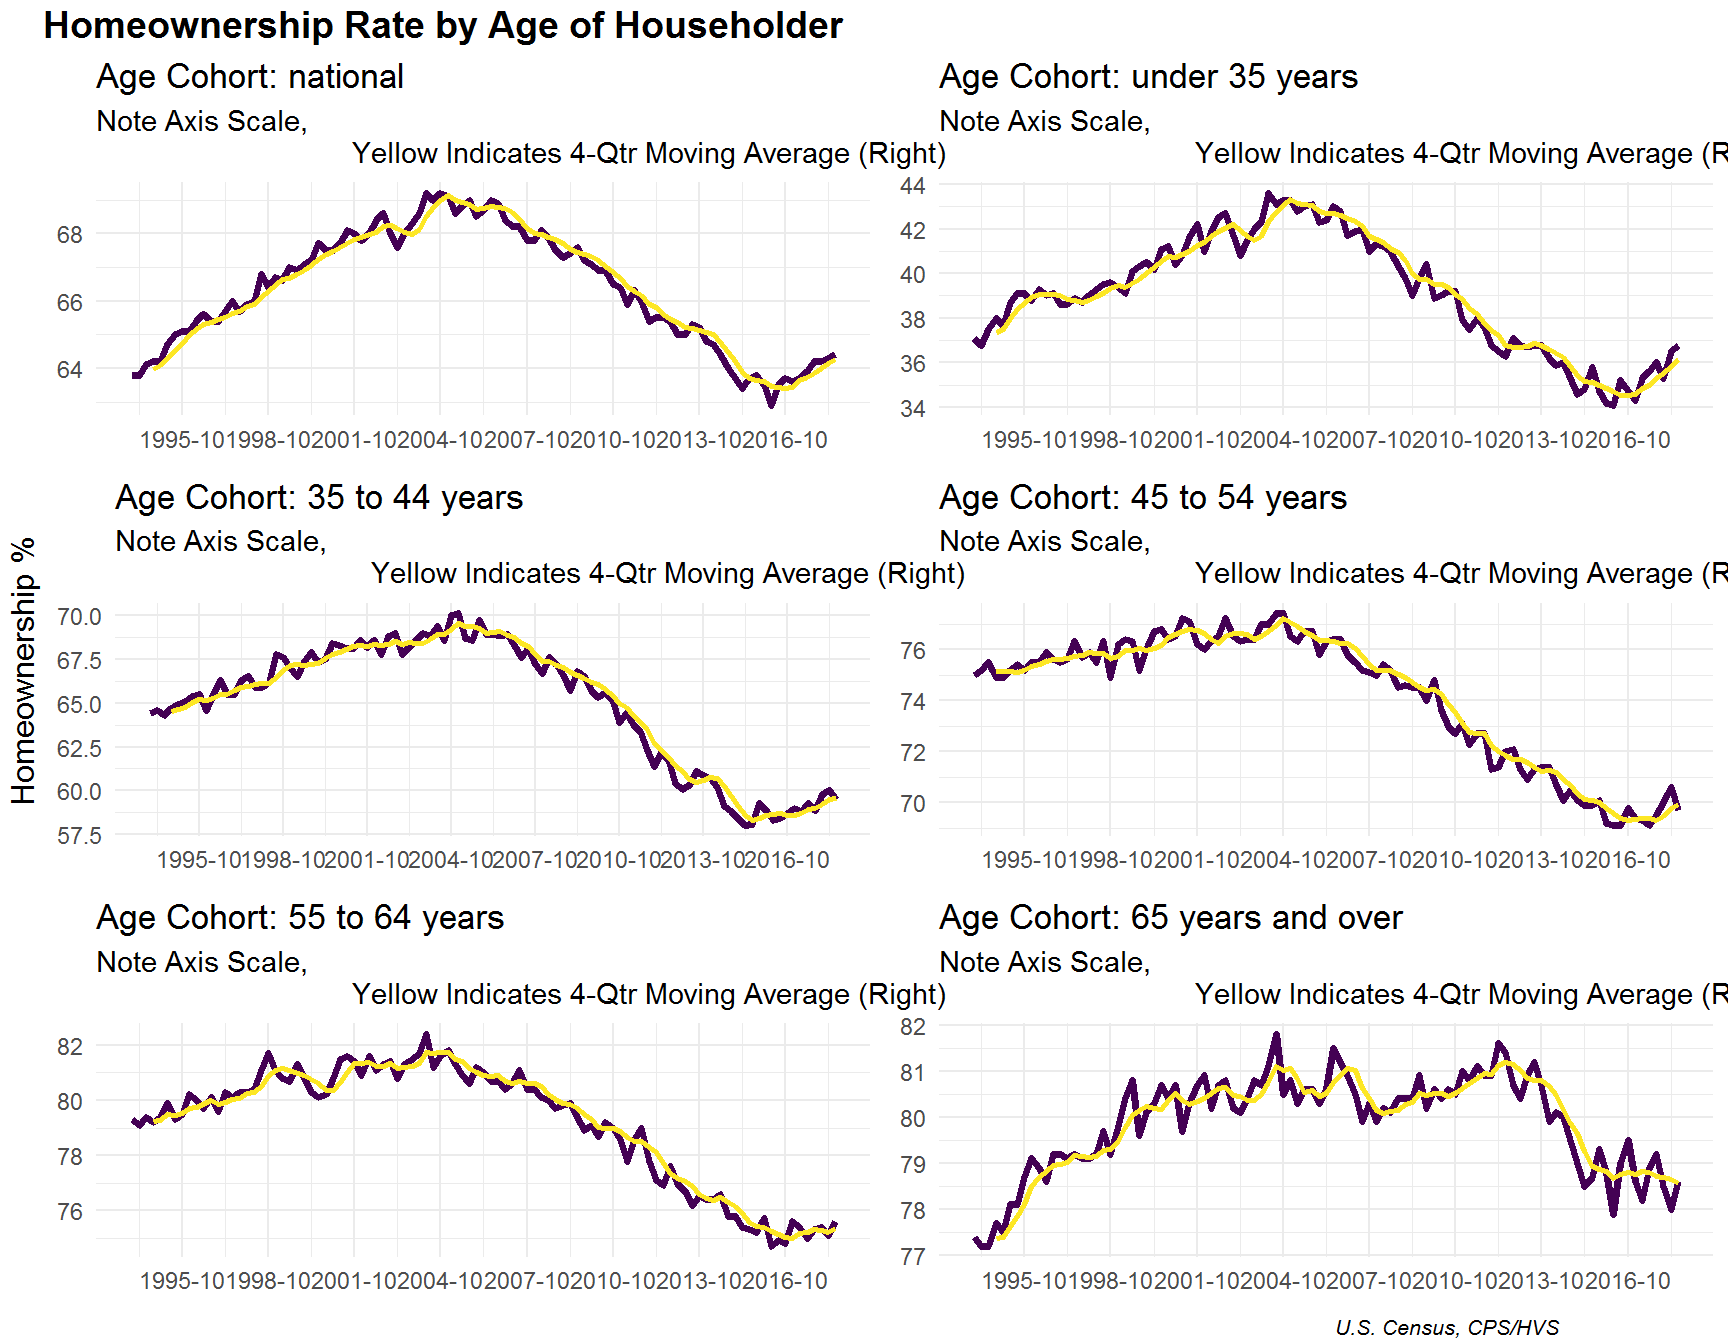
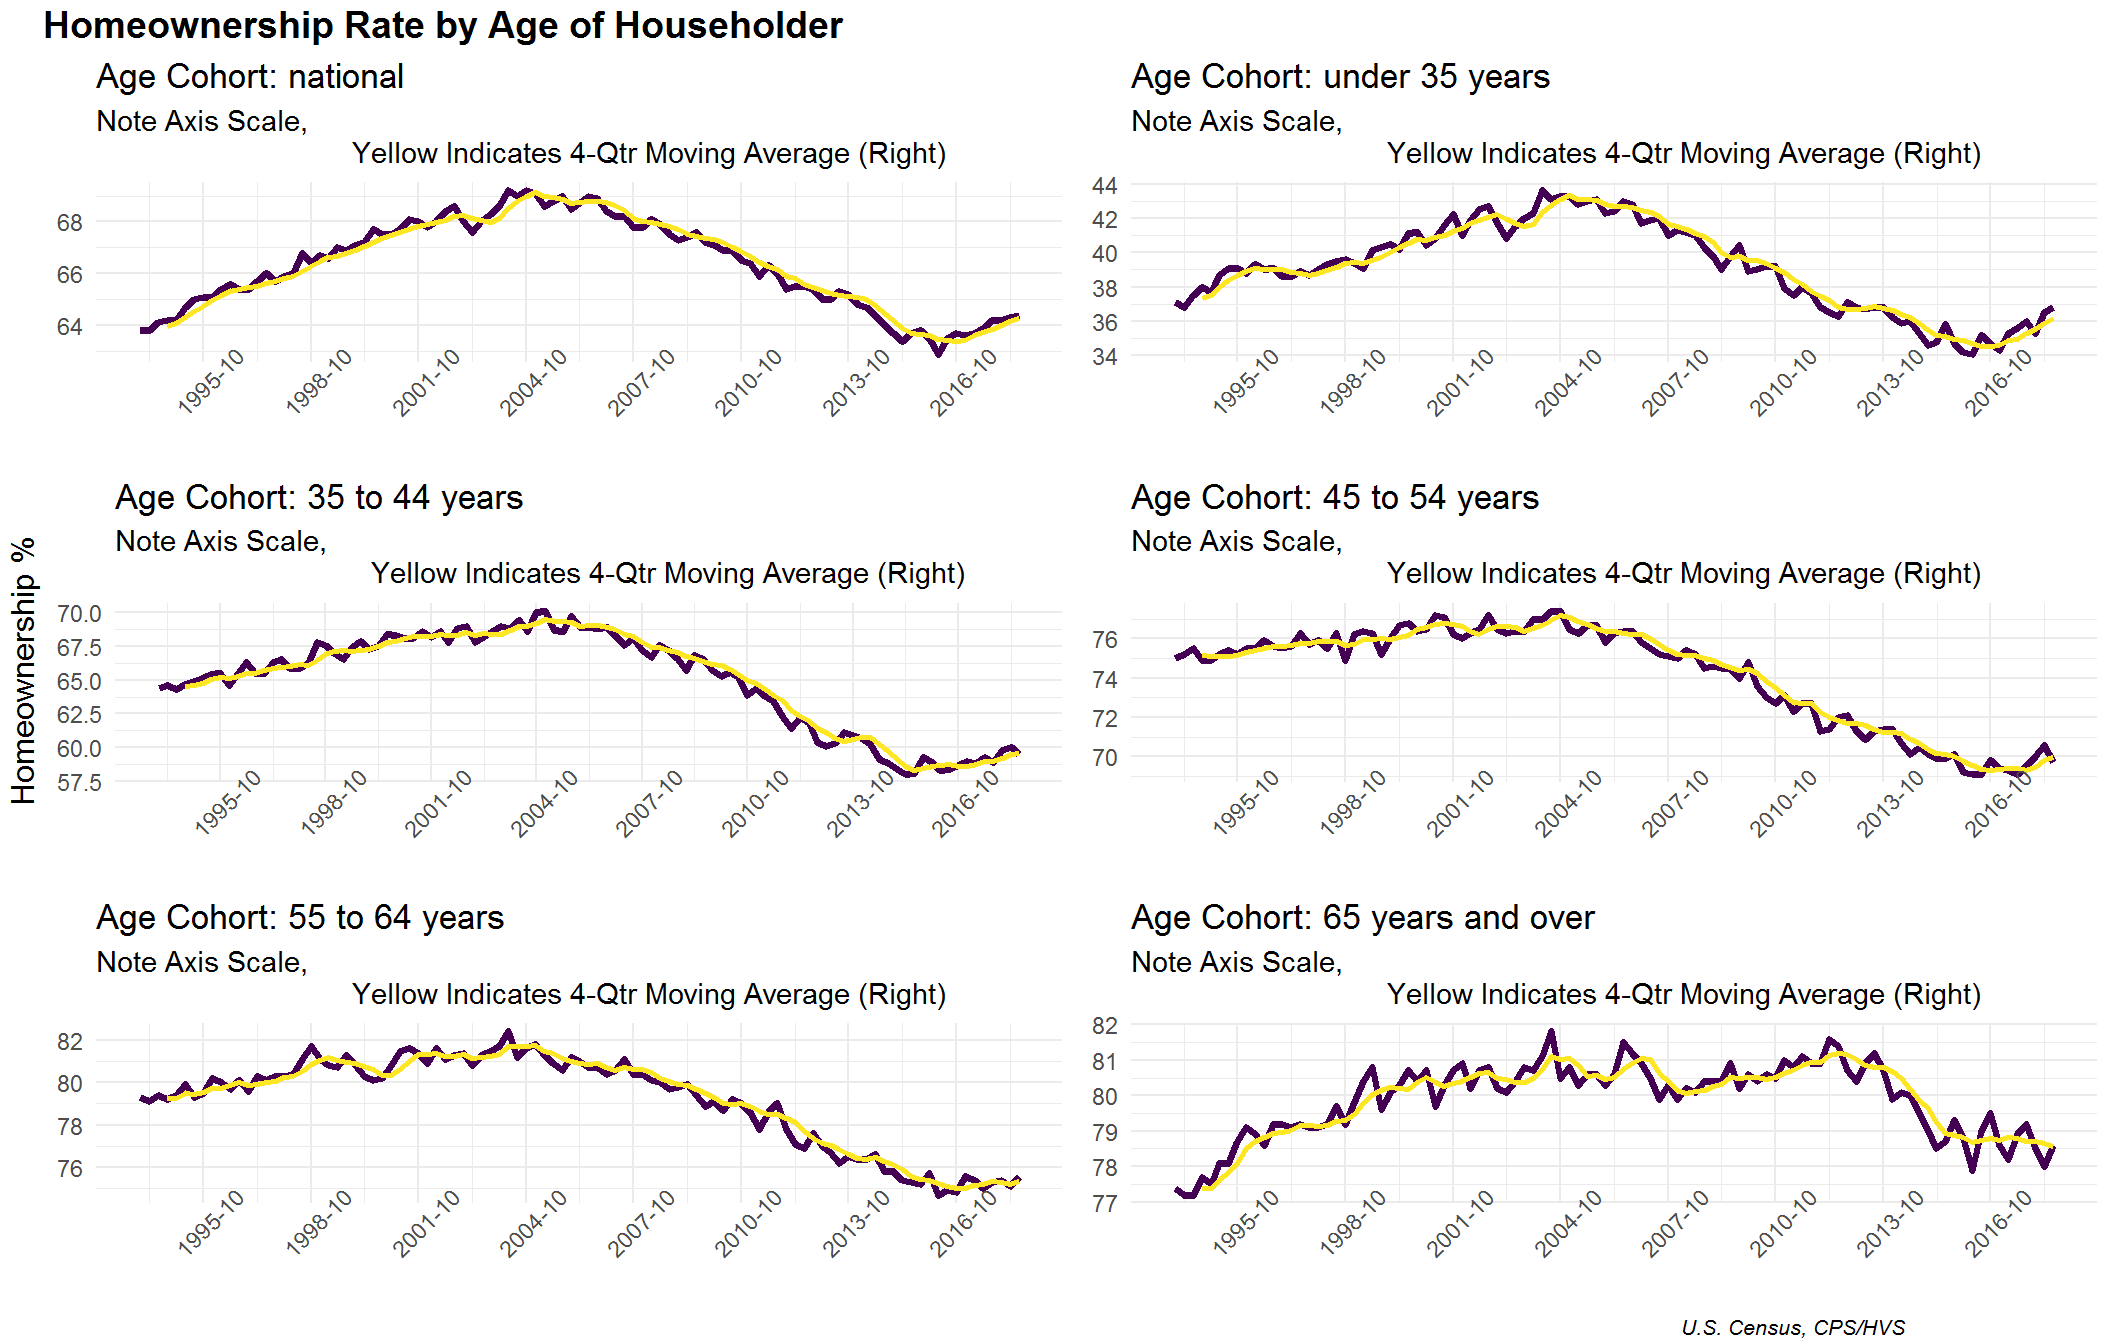
Minor edits to content HVS-Homeownership

Changed region(s): [[0.0, 0.0, 1.0, 1.0], [0.5, 0.4688, 0.5312, 0.5625], [0.0312, 0.1562, 0.0625, 0.1875]]

diff --git a/content/post/2018-11-24-visualizing-the-homeownership-rate-in-the-u-s.html b/content/post/2018-11-24-visualizing-the-homeownership-rate-in-the-u-s.html
@@ -31,14 +31,16 @@ tags:
 <li>Note the above link is a direct download of the Excel file</li>
 </ul>
 <p>For readers attempting to reproduce this analysis, it will be assumed that you have already downloaded the file, cleaned it up (removed revisions/created full dates) and pointed your working directory to the file. A custom function I have written to expedite this process with R can be found (here)<a href="https://www.brodrigues.co/blog/2017-03-29-make-ggplot2-purrr/#">5</a>. <strong>Note that the working directory and the target download url may need to be updated for your own specific flow prior to execution of the script.</strong></p>
-<pre class="r"><code># rm(list = ls()) Optional - don&#39;t treat strings as factors, no scientific
-# notation for large #&#39;s
+<pre class="r"><code># rm(list = ls())
+# Optional - don&#39;t treat strings as factors, 
+# no scientific notation for large #&#39;s
 options(stringsAsFactors = F, scipen = 99)
 
-# Required Packages - install if necessary - UPDATE TO INSTALL IF DON&#39;T
-# EXISt
-pks &lt;- c(&quot;ggplot2&quot;, &quot;stringr&quot;, &quot;tidyverse&quot;, &quot;knitr&quot;, &quot;lubridate&quot;, &quot;fs&quot;, &quot;purrr&quot;, 
-    &quot;scales&quot;, &quot;tidyr&quot;, &quot;gridExtra&quot;, &quot;grid&quot;, &quot;kableExtra&quot;)
+# Required Packages - install if necessary
+# UPDATE TO INSTALL IF DON&#39;T EXISt
+pks &lt;- c(&quot;ggplot2&quot;, &quot;stringr&quot;, &quot;tidyverse&quot;, &quot;knitr&quot;,
+         &quot;lubridate&quot;, &quot;fs&quot;, &quot;purrr&quot;, &quot;scales&quot;, &quot;tidyr&quot;,
+         &quot;gridExtra&quot;, &quot;grid&quot;, &quot;kableExtra&quot;)
 
 invisible(lapply(pks, require, character.only = T))
 
@@ -55,116 +57,122 @@ fname &lt;- &quot;2018-10-30-HVS-Homeownership-Q32018.csv&quot;</code></pre>
 <li>value = The percent of homeownership for the cohort</li>
 <li>ma_ann_right = The 4 quarter (annual) moving average of the homeownership rate (right weighted) for each cohort</li>
 </ul>
-<pre class="r"><code># https://blogdown-demo.rbind.io/2018/02/27/r-file-paths/ For reading in
-# data with blogdown
+<pre class="r"><code># https://blogdown-demo.rbind.io/2018/02/27/r-file-paths/
+# For reading in data with blogdown
 
-d &lt;- read_csv(paste0(&quot;../../static/data/&quot;, fname), col_names = T) %&gt;% select(full_dt, 
-    variable, value, ma_ann_right)
+d &lt;- read_csv(paste0(&quot;../../static/data/&quot;,fname), col_names = T)%&gt;%
+  select(full_dt, variable, value, ma_ann_right)
 
-# Get the most recent Homeownership Rate by Age of Householder We will use
-# this for adding points to our plots in the next section
-d_points &lt;- group_by(d, variable) %&gt;% slice(which.max(full_dt))
+# Get the most recent Homeownership Rate 
+# by Age of Householder
+# We will use this for adding points 
+# to our plots in the next section
+d_points &lt;- group_by(d, variable)%&gt;%
+  slice(which.max(full_dt))
 
-d_points %&gt;% kable(., format = &quot;html&quot;) %&gt;% kable_styling(bootstrap_options = &quot;striped&quot;)</code></pre>
+d_points%&gt;%
+  kable(., format = &quot;html&quot;, align = &quot;c&quot;)%&gt;%
+  kable_styling(bootstrap_options = &quot;striped&quot;, 
+                full_width = T, position = &quot;center&quot;)</code></pre>
 <table class="table table-striped" style="margin-left: auto; margin-right: auto;">
 <thead>
 <tr>
-<th style="text-align:left;">
+<th style="text-align:center;">
 full_dt
 </th>
-<th style="text-align:left;">
+<th style="text-align:center;">
 variable
 </th>
-<th style="text-align:right;">
+<th style="text-align:center;">
 value
 </th>
-<th style="text-align:right;">
+<th style="text-align:center;">
 ma_ann_right
 </th>
 </tr>
 </thead>
 <tbody>
 <tr>
-<td style="text-align:left;">
+<td style="text-align:center;">
 2018-07-01
 </td>
-<td style="text-align:left;">
+<td style="text-align:center;">
 35_to_44_years
 </td>
-<td style="text-align:right;">
+<td style="text-align:center;">
 59.5
 </td>
-<td style="text-align:right;">
+<td style="text-align:center;">
 59.550
 </td>
 </tr>
 <tr>
-<td style="text-align:left;">
+<td style="text-align:center;">
 2018-07-01
 </td>
-<td style="text-align:left;">
+<td style="text-align:center;">
 45_to_54_years
 </td>
-<td style="text-align:right;">
+<td style="text-align:center;">
 69.7
 </td>
-<td style="text-align:right;">
+<td style="text-align:center;">
 69.950
 </td>
 </tr>
 <tr>
-<td style="text-align:left;">
+<td style="text-align:center;">
 2018-07-01
 </td>
-<td style="text-align:left;">
+<td style="text-align:center;">
 55_to_64_years
 </td>
-<td style="text-align:right;">
+<td style="text-align:center;">
 75.6
 </td>
-<td style="text-align:right;">
+<td style="text-align:center;">
 75.350
 </td>
 </tr>
 <tr>
-<td style="text-align:left;">
+<td style="text-align:center;">
 2018-07-01
 </td>
-<td style="text-align:left;">
+<td style="text-align:center;">
 65_years_and_over
 </td>
-<td style="text-align:right;">
+<td style="text-align:center;">
 78.6
 </td>
-<td style="text-align:right;">
+<td style="text-align:center;">
 78.575
 </td>
 </tr>
 <tr>
-<td style="text-align:left;">
+<td style="text-align:center;">
 2018-07-01
 </td>
-<td style="text-align:left;">
+<td style="text-align:center;">
 national
 </td>
-<td style="text-align:right;">
+<td style="text-align:center;">
 64.4
 </td>
-<td style="text-align:right;">
+<td style="text-align:center;">
 64.275
 </td>
 </tr>
 <tr>
-<td style="text-align:left;">
+<td style="text-align:center;">
 2018-07-01
 </td>
-<td style="text-align:left;">
+<td style="text-align:center;">
 under_35_years
 </td>
-<td style="text-align:right;">
+<td style="text-align:center;">
 36.8
 </td>
-<td style="text-align:right;">
+<td style="text-align:center;">
 36.150
 </td>
 </tr>
@@ -191,26 +199,27 @@ under_35_years
 col_ref &lt;- c(&quot;#26828EFF&quot;, &quot;#FDE725FF&quot;, &quot;#440154FF&quot;)
 
 # Creates the dataframe with a nested column containing each of the plots by
-# Age Cohort T
+# Age Cohort
 
 p_all &lt;- d %&gt;% group_by(variable) %&gt;% nest() %&gt;% mutate(plots_by_cohort = map2(data, 
     variable, ~ggplot(data = .x) + geom_line(aes(x = full_dt, y = value), size = 1.25, 
         color = col_ref[3]) + geom_line(aes(x = full_dt, y = ma_ann_right), 
         size = 1, color = col_ref[2]) + scale_x_date(labels = date_format(&quot;%Y-%m&quot;), 
         breaks = date_breaks(&quot;36 months&quot;)) + theme_minimal() + theme(rect = element_rect(fill = &quot;transparent&quot;), 
-        title = element_text(size = 11)) + labs(title = paste0(&quot;Age Cohort: &quot;, 
-        str_replace_all(.y, pattern = &quot;_&quot;, &quot; &quot;)), subtitle = &quot;Note Axis Scale, 
+        title = element_text(size = 11), axis.text.x = element_text(angle = 45)) + 
+        labs(title = paste0(&quot;Age Cohort: &quot;, str_replace_all(.y, pattern = &quot;_&quot;, 
+            &quot; &quot;)), subtitle = &quot;Note Axis Scale, 
                                 Yellow Indicates 4-Qtr Moving Average (Right)&quot;, 
-        x = NULL, y = NULL)))
+            x = NULL, y = NULL)))
 
 # This first makes the 6 in idual plots using the purrr:invoke function Then
 # we arrange each of these plots on a 2x3 with a title, caption and y-axis
-# label for the grid (rather than for each in idual plot)
+# label for the grid (rather than for each in idividual plot)
 
 invoke(grid.arrange, p_all$plots_by_cohort, top = textGrob(&quot;Homeownership Rate by Age of Householder&quot;, 
     hjust = 0, x = 0, gp = gpar(fontface = &quot;bold&quot;, fontsize = 14)), left = &quot;Homeownership %&quot;, 
     bottom = textGrob(&quot;U.S. Census, CPS/HVS&quot;, hjust = 1, x = 0.9, gp = gpar(fontface = &quot;italic&quot;, 
         fontsize = 8)))</code></pre>
-<p><img src="/post/2018-11-24-visualizing-the-homeownership-rate-in-the-u-s_files/figure-html/plotViz-1.png" width="864" style="display: block; margin: auto;" /></p>
+<p><img src="/post/2018-11-24-visualizing-the-homeownership-rate-in-the-u-s_files/figure-html/plotViz-1.png" width="1056" style="display: block; margin: auto;" /></p>
 </div>
 </div>
